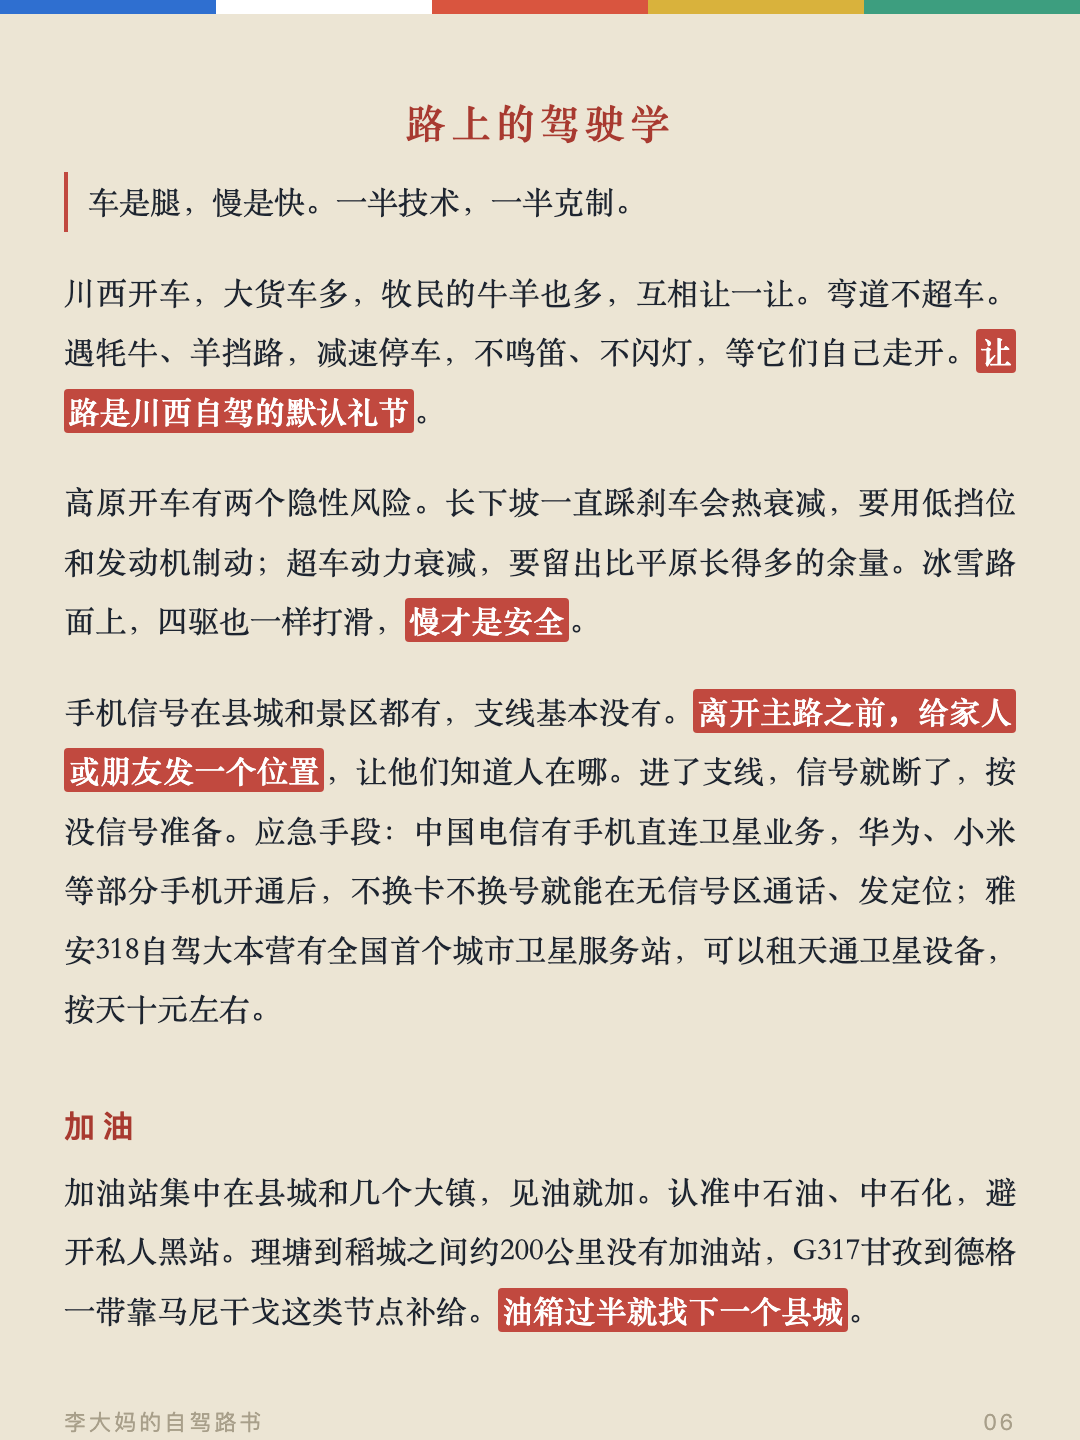
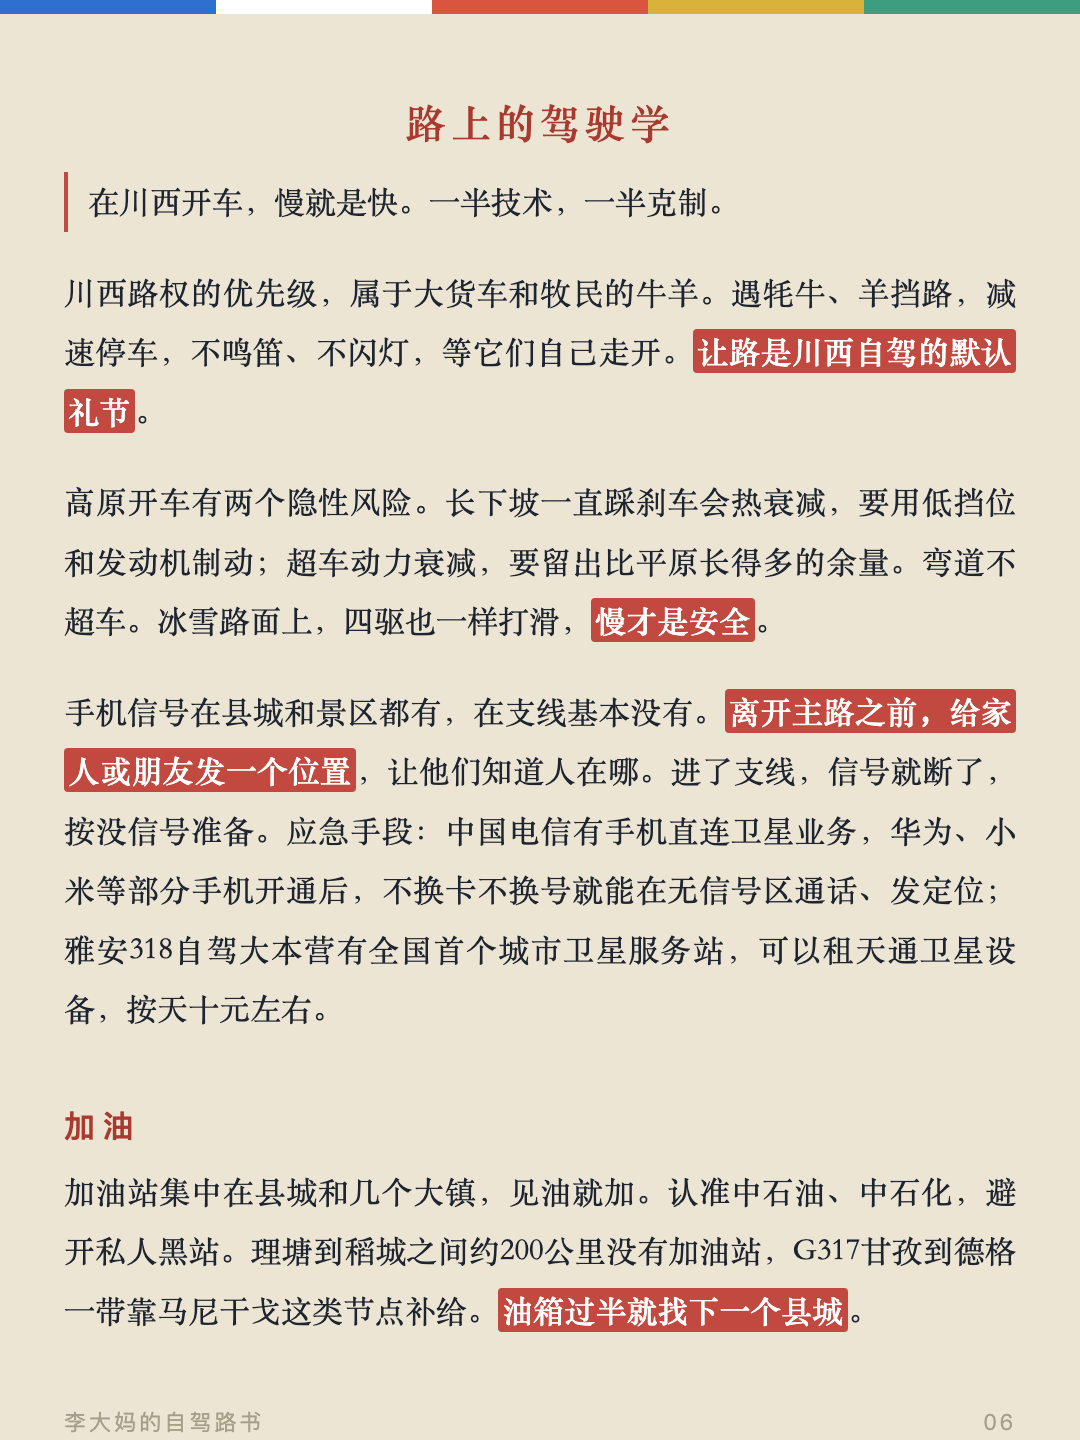
驾驶学：lead改在川西开车慢就是快（含速览）；路权优先级句；弯道不超车挪到第二段；信号句加在

diff --git a/cards.html b/cards.html
@@ -123,7 +123,7 @@
 </head>
 <body>
 
-<div class="card" id="card1"><div class="flag" aria-hidden="true"><span style="background:var(--flag-blue)"></span><span style="background:var(--flag-white)"></span><span style="background:var(--flag-red)"></span><span style="background:var(--flag-yellow)"></span><span style="background:var(--flag-green)"></span></div><div class="card__inner"><div class="card__kicker">李大妈的自驾路书</div><h1><strong>川西自驾行前笔记</strong></h1><p class="card__intro">川西自驾是一门功课：海拔怎么分层、山河怎么走向、车怎么开山路、信仰怎么分辨、手艺在哪儿、房子为什么长这样。</p><p class="card__meta">我习惯在行前把零碎信息整理成笔记，当作出行线索。笔记更新于2026年8月28日。天气、封路、营业时间等信息随季节变化，出发前应再次查询官方信息。</p><h2>开篇　七章速览</h2><ul class="card__keys"><li><span>海拔决定秩序</span><strong>一　高原的秩序</strong></li> <li><span>山河决定地图</span><strong>二　山河的地图</strong></li> <li><span>车是腿，慢是快</span><strong>三　路上的驾驶学</strong></li> <li><span>认得前兆，知道方向</span><strong>四　险情的应对</strong></li> <li><span>看墙色分辨教派</span><strong>五　信仰的世界</strong></li> <li><span>手艺是还在运转的产业</span><strong>六　手艺的文明</strong></li> <li><span>材料决定房子</span><strong>七　建筑的方言</strong></li></ul><div class="card__foot"><span></span><span class="foot-flag" aria-hidden="true"><span style="background:var(--flag-blue)"></span><span style="background:var(--flag-white)"></span><span style="background:var(--flag-red)"></span><span style="background:var(--flag-yellow)"></span><span style="background:var(--flag-green)"></span></span><span>01</span></div></div></div>
+<div class="card" id="card1"><div class="flag" aria-hidden="true"><span style="background:var(--flag-blue)"></span><span style="background:var(--flag-white)"></span><span style="background:var(--flag-red)"></span><span style="background:var(--flag-yellow)"></span><span style="background:var(--flag-green)"></span></div><div class="card__inner"><div class="card__kicker">李大妈的自驾路书</div><h1><strong>川西自驾行前笔记</strong></h1><p class="card__intro">川西自驾是一门功课：海拔怎么分层、山河怎么走向、车怎么开山路、信仰怎么分辨、手艺在哪儿、房子为什么长这样。</p><p class="card__meta">我习惯在行前把零碎信息整理成笔记，当作出行线索。笔记更新于2026年8月28日。天气、封路、营业时间等信息随季节变化，出发前应再次查询官方信息。</p><h2>开篇　七章速览</h2><ul class="card__keys"><li><span>海拔决定秩序</span><strong>一　高原的秩序</strong></li> <li><span>山河决定地图</span><strong>二　山河的地图</strong></li> <li><span>在川西开车，慢就是快</span><strong>三　路上的驾驶学</strong></li> <li><span>认得前兆，知道方向</span><strong>四　险情的应对</strong></li> <li><span>看墙色分辨教派</span><strong>五　信仰的世界</strong></li> <li><span>手艺是还在运转的产业</span><strong>六　手艺的文明</strong></li> <li><span>材料决定房子</span><strong>七　建筑的方言</strong></li></ul><div class="card__foot"><span></span><span class="foot-flag" aria-hidden="true"><span style="background:var(--flag-blue)"></span><span style="background:var(--flag-white)"></span><span style="background:var(--flag-red)"></span><span style="background:var(--flag-yellow)"></span><span style="background:var(--flag-green)"></span></span><span>01</span></div></div></div>
 
 <div class="card" id="card2"><div class="flag" aria-hidden="true"><span style="background:var(--flag-blue)"></span><span style="background:var(--flag-white)"></span><span style="background:var(--flag-red)"></span><span style="background:var(--flag-yellow)"></span><span style="background:var(--flag-green)"></span></div><div class="card__inner"><h3>与人相处</h3><p><strong>牧民。</strong> 牛羊是牧民的主要家当。拍牧民和牲畜，先打招呼再举相机。牧场的帐篷和围栏，不随便进去。</p><p><strong>匠人。</strong> 进工坊先问能不能看，问手艺、问工序，匠人愿意聊就聊。工具和材料不上手碰。买现货，半成品和机压仿品不碰。</p><p><strong>僧侣。</strong> 称呼用“师父”或“上师”。进大殿脱帽、轻声、顺时针走，不拍照、不指佛像。法会时安静看，不打断、不围观起哄。</p><p><strong>司机和本地人。</strong> 见面一句“扎西德勒”，气氛就开了。问路、问价，态度客气，多数人都愿意答。本地人大多直接，不绕弯。</p><p><strong>买东西。</strong> 讲好价就照付，不反复缠价。看上了再还价，压完不买<span class="nowrap">最伤和气。</span></p><p><strong>拍照。</strong> 拍人先问，拍寺院内部和法会先看有没有禁令。相机镜头对着人的时候，先问一句，多数人会同意的。</p><div class="card__foot"><span>李大妈的自驾路书</span><span>02</span></div></div></div>
 
@@ -133,7 +133,7 @@
 
 <div class="card" id="card5"><div class="flag" aria-hidden="true"><span style="background:var(--flag-blue)"></span><span style="background:var(--flag-white)"></span><span style="background:var(--flag-red)"></span><span style="background:var(--flag-yellow)"></span><span style="background:var(--flag-green)"></span></div><div class="card__inner"><p>川西地震多，因为它在鲜水河断裂带上。这条断裂带从中部纵贯，历史上强震不断。对旅行者，最实在的是<strong>路况随时可能因塌方管制</strong>；很多陡崖和河谷的走向，就是断裂带运动的痕迹。</p><p>植被随海拔分层，从山谷到垭口一路变化。2500米以下是针阔混交林；2500到3500米是云杉冷杉的针叶林，高山杜鹃夹在林里；3500到4500米是高山灌丛和高山草甸，冬虫夏草、雪茶都长在这一层；4500米以上是流石滩，雪莲贴着碎石长。<strong>同一条路翻几座山，一天就能跨过四个<span class="nowrap">植被带</span>，换到别处得开几千公里。</strong></p><p>吃的东西也按海拔分布。青稞是高原的当家作物，炒熟磨成糌粑，拌上酥油茶捏成团，是藏人的日常主食；酥油茶用砖茶和酥油熬，热量高、解渴御寒，当地有<strong>“宁可三日无肉，不可一日无茶”</strong>的说法。牦牛在海拔3500米以上放养，肉干、火锅、炖汤都常见；血肠是待客的上等菜，牛血或羊血和肉丁灌进小肠煮熟。松茸这类菌子长在森林里，集中在金沙江、雅砻江、大渡河上中游的高山峡谷，夏秋雨后出得多，炖鸡、涮锅都常吃。这些不用刻意找，路边饭馆的菜单上就有。</p><div class="card__foot"><span>李大妈的自驾路书</span><span>05</span></div></div></div>
 
-<div class="card" id="card6"><div class="flag" aria-hidden="true"><span style="background:var(--flag-blue)"></span><span style="background:var(--flag-white)"></span><span style="background:var(--flag-red)"></span><span style="background:var(--flag-yellow)"></span><span style="background:var(--flag-green)"></span></div><div class="card__inner"><h2>路上的驾驶学</h2><p class="card__lead">车是腿，慢是快。一半技术，一半克制。</p><p>川西开车，大货车多，牧民的牛羊也多，互相让一让。弯道不超车。遇牦牛、羊挡路，减速停车，不鸣笛、不闪灯，等它们自己走开。<strong>让路是川西自驾的默认礼节</strong>。</p><p>高原开车有两个隐性风险。长下坡一直踩刹车会热衰减，要用低挡位和发动机制动；超车动力衰减，要留出比平原长得多的余量。冰雪路面上，四驱也一样打滑，<strong>慢才是安全</strong>。</p><p>手机信号在县城和景区都有，支线基本没有。<strong>离开主路之前，给家人或朋友发一个位置</strong>，让他们知道人在哪。进了支线，信号就断了，按没信号准备。应急手段：中国电信有手机直连卫星业务，华为、小米等部分手机开通后，不换卡不换号就能在无信号区通话、发定位；雅安318自驾大本营有全国首个城市卫星服务站，可以租天通卫星设备，按天十元左右。</p><h3>加油</h3><p>加油站集中在县城和几个大镇，见油就加。认准中石油、中石化，避开私人黑站。理塘到稻城之间约200公里没有加油站，G317甘孜到德格一带靠马尼干戈这类节点补给。<strong>油箱过半就找下一个县城</strong>。</p><div class="card__foot"><span>李大妈的自驾路书</span><span>06</span></div></div></div>
+<div class="card" id="card6"><div class="flag" aria-hidden="true"><span style="background:var(--flag-blue)"></span><span style="background:var(--flag-white)"></span><span style="background:var(--flag-red)"></span><span style="background:var(--flag-yellow)"></span><span style="background:var(--flag-green)"></span></div><div class="card__inner"><h2>路上的驾驶学</h2><p class="card__lead">在川西开车，慢就是快。一半技术，一半克制。</p><p>川西路权的优先级，属于大货车和牧民的牛羊。遇牦牛、羊挡路，减速停车，不鸣笛、不闪灯，等它们自己走开。<strong>让路是川西自驾的默认礼节</strong>。</p><p>高原开车有两个隐性风险。长下坡一直踩刹车会热衰减，要用低挡位和发动机制动；超车动力衰减，要留出比平原长得多的余量。弯道不超车。冰雪路面上，四驱也一样打滑，<strong>慢才是安全</strong>。</p><p>手机信号在县城和景区都有，在支线基本没有。<strong>离开主路之前，给家人或朋友发一个位置</strong>，让他们知道人在哪。进了支线，信号就断了，按没信号准备。应急手段：中国电信有手机直连卫星业务，华为、小米等部分手机开通后，不换卡不换号就能在无信号区通话、发定位；雅安318自驾大本营有全国首个城市卫星服务站，可以租天通卫星设备，按天十元左右。</p><h3>加油</h3><p>加油站集中在县城和几个大镇，见油就加。认准中石油、中石化，避开私人黑站。理塘到稻城之间约200公里没有加油站，G317甘孜到德格一带靠马尼干戈这类节点补给。<strong>油箱过半就找下一个县城</strong>。</p><div class="card__foot"><span>李大妈的自驾路书</span><span>06</span></div></div></div>
 
 <div class="card" id="card7"><div class="flag" aria-hidden="true"><span style="background:var(--flag-blue)"></span><span style="background:var(--flag-white)"></span><span style="background:var(--flag-red)"></span><span style="background:var(--flag-yellow)"></span><span style="background:var(--flag-green)"></span></div><div class="card__inner"><h3>充电</h3><p>川西这两年变化快。2025年6月甘孜州18个公路养护站和14个快充站投运，理塘到稻城段充电桩最大间距125公里；318沿线超300个充电桩，快充占七成以上。密度从东往西递减：成都到康定每30到50公里一个快充；康定、新都桥、雅江、理塘每80到150公里；理塘往稻城亚丁、新都桥往塔公八美每150到200公里。冷嘎措、格聂、若尔盖穿越段还是盲区。实际体验要打折：约一成五的桩故障或被燃油车占位，节假日热门站排队可能超一小时。高原续航缩水约三四成。<strong>电量低于三成就找桩</strong>，进景区前在县城充到八成以上。查桩用特来电、国网e充电、星星充电的App，或高德的新能源模式。</p><h3>封路信息</h3><p>两类封路最常见：汛期6到8月塌方落石，抢修期间半幅放行或管制；冬季11月到次年3、4月冬管，比如九绵高速夜间20点到次日8点禁行，夹金山段整个冬天双向禁行，理小路冬天全段禁行。<strong>G317马尔康到观音桥段，自2025年11月红旗特大桥垮塌后一直中断</strong>，绕行走壤塘、阿坝、红原方向，约多3小时；官方便道工程预计2026年9月底至10月初通车。官方渠道：阿坝州政府官网阿坝路况专栏、四川发布和成都发布公众号、高速救援12122、报警96122。<strong>官方路况和高德，出发当天交叉核对</strong>。</p><div class="card__foot"><span>李大妈的自驾路书</span><span>07</span></div></div></div>
 

diff --git a/index.html b/index.html
@@ -204,7 +204,7 @@
       <ul class="keys">
         <li><span>海拔决定秩序</span><strong>一　高原的秩序</strong></li>
         <li><span>山河决定地图</span><strong>二　山河的地图</strong></li>
-        <li><span>车是腿，慢是快</span><strong>三　路上的驾驶学</strong></li>
+        <li><span>在川西开车，慢就是快</span><strong>三　路上的驾驶学</strong></li>
         <li><span>认得前兆，知道方向</span><strong>四　险情的应对</strong></li>
         <li><span>看墙色分辨教派</span><strong>五　信仰的世界</strong></li>
         <li><span>手艺是还在运转的产业</span><strong>六　手艺的文明</strong></li>
@@ -245,10 +245,10 @@
     <!-- 三、路上的驾驶学 -->
     <section class="part" id="driving">
       <div class="part__head"><span class="part__no" aria-hidden="true">三</span><h2>路上的驾驶学</h2></div>
-      <p class="part__lead">车是腿，慢是快。一半技术，一半克制。</p>
-      <p>川西开车，大货车多，牧民的牛羊也多，互相让一让。弯道不超车。遇牦牛、羊挡路，减速停车，不鸣笛、不闪灯，等它们自己走开。<strong>让路是川西自驾的默认礼节</strong>。</p>
-      <p>高原开车有两个隐性风险。长下坡一直踩刹车会热衰减，要用低挡位和发动机制动；超车动力衰减，要留出比平原长得多的余量。冰雪路面上，四驱也一样打滑，<strong>慢才是安全</strong>。</p>
-      <p>手机信号在县城和景区都有，支线基本没有。<strong>离开主路之前，给家人或朋友发一个位置</strong>，让他们知道人在哪。进了支线，信号就断了，按没信号准备。应急手段：中国电信有手机直连卫星业务，华为、小米等部分手机开通后，不换卡不换号就能在无信号区通话、发定位；雅安318自驾大本营有全国首个城市卫星服务站，可以租天通卫星设备，按天十元左右。</p>
+      <p class="part__lead">在川西开车，慢就是快。一半技术，一半克制。</p>
+      <p>川西路权的优先级，属于大货车和牧民的牛羊。遇牦牛、羊挡路，减速停车，不鸣笛、不闪灯，等它们自己走开。<strong>让路是川西自驾的默认礼节</strong>。</p>
+      <p>高原开车有两个隐性风险。长下坡一直踩刹车会热衰减，要用低挡位和发动机制动；超车动力衰减，要留出比平原长得多的余量。弯道不超车。冰雪路面上，四驱也一样打滑，<strong>慢才是安全</strong>。</p>
+      <p>手机信号在县城和景区都有，在支线基本没有。<strong>离开主路之前，给家人或朋友发一个位置</strong>，让他们知道人在哪。进了支线，信号就断了，按没信号准备。应急手段：中国电信有手机直连卫星业务，华为、小米等部分手机开通后，不换卡不换号就能在无信号区通话、发定位；雅安318自驾大本营有全国首个城市卫星服务站，可以租天通卫星设备，按天十元左右。</p>
 
       <h3>加油</h3>
       <p>加油站集中在县城和几个大镇，见油就加。认准中石油、中石化，避开私人黑站。理塘到稻城之间约200公里没有加油站，G317甘孜到德格一带靠马尼干戈这类节点补给。<strong>油箱过半就找下一个县城</strong>。</p>

diff --git a/gen_cards.py b/gen_cards.py
@@ -13,7 +13,7 @@ FLAG = ('<span style="background:var(--flag-blue)"></span>'
 
 # ---- 网页内容块，原样搬运 ----
 
-KEYS = ('<ul class="card__keys"><li><span>海拔决定秩序</span><strong>一　高原的秩序</strong></li> <li><span>山河决定地图</span><strong>二　山河的地图</strong></li> <li><span>车是腿，慢是快</span><strong>三　路上的驾驶学</strong></li> <li><span>认得前兆，知道方向</span><strong>四　险情的应对</strong></li> <li><span>看墙色分辨教派</span><strong>五　信仰的世界</strong></li> <li><span>手艺是还在运转的产业</span><strong>六　手艺的文明</strong></li> <li><span>材料决定房子</span><strong>七　建筑的方言</strong></li></ul>')
+KEYS = ('<ul class="card__keys"><li><span>海拔决定秩序</span><strong>一　高原的秩序</strong></li> <li><span>山河决定地图</span><strong>二　山河的地图</strong></li> <li><span>在川西开车，慢就是快</span><strong>三　路上的驾驶学</strong></li> <li><span>认得前兆，知道方向</span><strong>四　险情的应对</strong></li> <li><span>看墙色分辨教派</span><strong>五　信仰的世界</strong></li> <li><span>手艺是还在运转的产业</span><strong>六　手艺的文明</strong></li> <li><span>材料决定房子</span><strong>七　建筑的方言</strong></li></ul>')
 
 PAGE1 = [
   ('kicker', '李大妈的自驾路书'),
@@ -48,10 +48,10 @@ BODY_STREAM = [
   ('p', '植被随海拔分层，从山谷到垭口一路变化。2500米以下是针阔混交林；2500到3500米是云杉冷杉的针叶林，高山杜鹃夹在林里；3500到4500米是高山灌丛和高山草甸，冬虫夏草、雪茶都长在这一层；4500米以上是流石滩，雪莲贴着碎石长。<strong>同一条路翻几座山，一天就能跨过四个<span class="nowrap">植被带</span>，换到别处得开几千公里。</strong>'),
   ('p', '吃的东西也按海拔分布。青稞是高原的当家作物，炒熟磨成糌粑，拌上酥油茶捏成团，是藏人的日常主食；酥油茶用砖茶和酥油熬，热量高、解渴御寒，当地有<strong>“宁可三日无肉，不可一日无茶”</strong>的说法。牦牛在海拔3500米以上放养，肉干、火锅、炖汤都常见；血肠是待客的上等菜，牛血或羊血和肉丁灌进小肠煮熟。松茸这类菌子长在森林里，集中在金沙江、雅砻江、大渡河上中游的高山峡谷，夏秋雨后出得多，炖鸡、涮锅都常吃。这些不用刻意找，路边饭馆的菜单上就有。'),
   ('h2', '路上的驾驶学'),
-  ('lead', '车是腿，慢是快。一半技术，一半克制。'),
-  ('p', '川西开车，大货车多，牧民的牛羊也多，互相让一让。弯道不超车。遇牦牛、羊挡路，减速停车，不鸣笛、不闪灯，等它们自己走开。<strong>让路是川西自驾的默认礼节</strong>。'),
-  ('p', '高原开车有两个隐性风险。长下坡一直踩刹车会热衰减，要用低挡位和发动机制动；超车动力衰减，要留出比平原长得多的余量。冰雪路面上，四驱也一样打滑，<strong>慢才是安全</strong>。'),
-  ('p', '手机信号在县城和景区都有，支线基本没有。<strong>离开主路之前，给家人或朋友发一个位置</strong>，让他们知道人在哪。进了支线，信号就断了，按没信号准备。应急手段：中国电信有手机直连卫星业务，华为、小米等部分手机开通后，不换卡不换号就能在无信号区通话、发定位；雅安318自驾大本营有全国首个城市卫星服务站，可以租天通卫星设备，按天十元左右。'),
+  ('lead', '在川西开车，慢就是快。一半技术，一半克制。'),
+  ('p', '川西路权的优先级，属于大货车和牧民的牛羊。遇牦牛、羊挡路，减速停车，不鸣笛、不闪灯，等它们自己走开。<strong>让路是川西自驾的默认礼节</strong>。'),
+  ('p', '高原开车有两个隐性风险。长下坡一直踩刹车会热衰减，要用低挡位和发动机制动；超车动力衰减，要留出比平原长得多的余量。弯道不超车。冰雪路面上，四驱也一样打滑，<strong>慢才是安全</strong>。'),
+  ('p', '手机信号在县城和景区都有，在支线基本没有。<strong>离开主路之前，给家人或朋友发一个位置</strong>，让他们知道人在哪。进了支线，信号就断了，按没信号准备。应急手段：中国电信有手机直连卫星业务，华为、小米等部分手机开通后，不换卡不换号就能在无信号区通话、发定位；雅安318自驾大本营有全国首个城市卫星服务站，可以租天通卫星设备，按天十元左右。'),
   ('h3', '加油'),
   ('p', '加油站集中在县城和几个大镇，见油就加。认准中石油、中石化，避开私人黑站。理塘到稻城之间约200公里没有加油站，G317甘孜到德格一带靠马尼干戈这类节点补给。<strong>油箱过半就找下一个县城</strong>。'),
   ('h3', '充电'),
